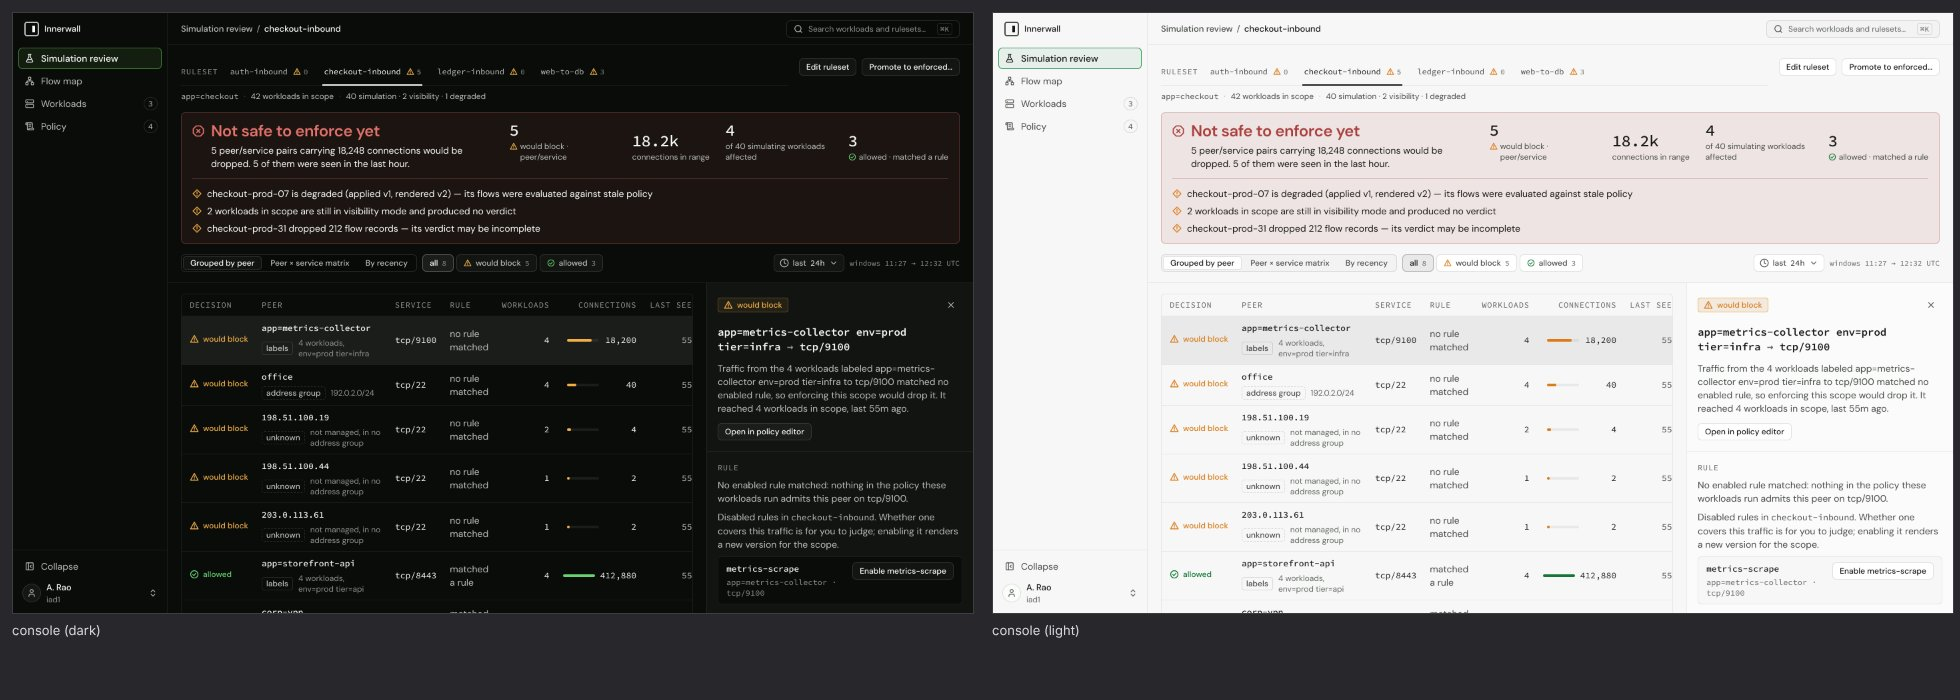
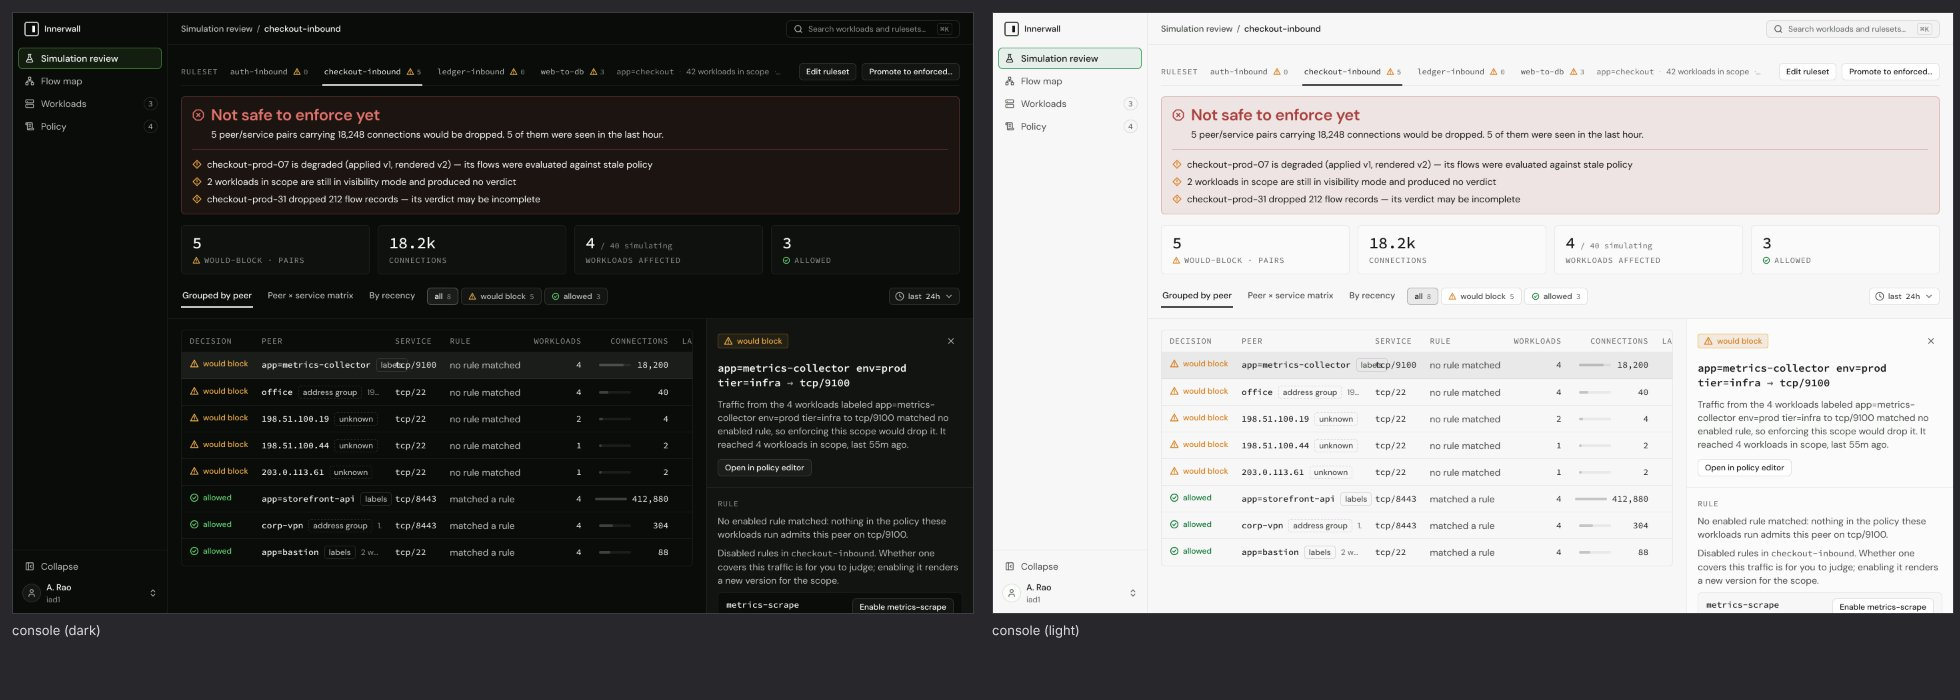
docs(console): record polish round 1; recapture the changed scenes
docs/design/PACKAGE.md records polish round 1 (P1-P14) as ruled,
including:
- the stat-tile labels;
- the neutral, kept mini-bars (P6);
- the result-line wording "N of M loaded" / "K match ·" / "filter
  counts cover loaded rows" (P8);
- hiding empty optional columns as display logic (P9).
E5 and the added-copy list point at it.

Recaptured from a fresh review-estate seed: the composites whose scenes
changed. That is every simulation review and flow map scene, the
Overview, inbound flows, offline resend and evidence-gap scenes, and
the policy editor scenes. The rest are unchanged.

Refs: INN-73

diff --git a/docs/design/PACKAGE.md b/docs/design/PACKAGE.md
@@ -136,7 +136,7 @@ The console scopes it in code:
[1 lines of base64/hex data omitted]
 | E3 | **Tabular numerals.** The package claims tabular figures, but its DM Sans files have proportional digits and no `tnum` feature. Numeric cells are set in Source Code Pro, which is fixed-width (existing practice), and the dead `tabular-nums` declarations are dropped. | 3 |
 | E4 | **Inbound flows columns.** The package specifies Time · Decision · Source · Port · Matched rule · Flows. The repo's columns win: Decision · Source · Port · Process · Matched rule · Conns · Last seen. Source draws the peer's labels as label chips. | 7 |
-| E5 | **Filtering over a paginated read.** "Client-side over served columns" sees only the loaded pages of the cursor-paged `/flows`. The panel's counts and result line are of the loaded rows and say so ("N of M loaded · more not loaded"), and the tab count stays the range total. Server-side filtering is INN-74. | 5 |
+| E5 | **Filtering over a paginated read.** "Client-side over served columns" sees only the loaded pages of the cursor-paged `/flows`. The panel's counts and result line are of the loaded rows and say so (as amended in polish round 1, P8), and the tab count stays the range total. Server-side filtering is INN-74. | 5 |
 | E6 | **Listening services groups.** Decision and Source are not columns of that table. Its panel has Port, Process, and Covered by rule ("— no rule covers it"). | 8 |
 | E7 | **Histogram (S5).** No time-bucketed flow read is served, so the Overview has no histogram and no reserved slot. The gap and `table_removed` history comes from `/flows/gaps`, and there is no credential event row (no event log is served). Follow-up INN-75 (ADR). | 14 |
 | E8 | **Workloads table.** The repo's columns and headers stay (Hostname, Labels, Mode, Sync, Applied, Credential, Agent, Last seen); Agent is new, from the served `agent.version`. The package's collapsible "Removed" bucket with no glyph misreads "removed": in the console it is *enforcement removed on host*, critical with the error glyph (issues #64, #96). | 15 |
@@ -149,6 +149,27 @@ The console scopes it in code:
 | E15 | **"Shown once" badge.** The package specifies a "shown once" warning badge before the mint dialog's sentence. The repo has no such string, so it is **not built** and is escalated as package-implied copy. The sentence is shown as prose with its glyph, and the secret sits in the sunk well. | escalated |
 | E16 | **Totals figures.** "Mono 24/28" has no package type style; the console keeps `type-mono-figure` locally in `index.css`. | build |
 | E17 | **Sign-in title.** The repo's sign-in has no page title (S3 placeholder; the repo owns the flow). `page-title` is used on the 404. | build |
+
+## Polish round 1 (live lab walkthrough, ruled 2026-10-15)
+
+Display and style only, within the package's rules. Wordings are as ruled.
+
+| # | Change |
+| --- | --- |
+| P1 | **Simulation review stat tiles.** The verdict banner holds only the headline, its sentence and the caveat lines. The four figures are a tile row under it: `surface-card` tiles, each a mono-uppercase label (`meta-label`) over a mono 24/28 figure. The labels: **WOULD-BLOCK · PAIRS** (would-block glyph), **CONNECTIONS**, **WORKLOADS AFFECTED** (with "/ N simulating" in text-tertiary), **ALLOWED** (allowed glyph). |
+| P2 | The scope line sits at the right of the ruleset row in text-tertiary, truncating, with a tooltip; one band fewer before the table. |
+| P3 | The UTC windows readout is the time-range control's tooltip, on Simulation review and Flow map. The text stays available to assistive technology. |
+| P4 | View switchers are underline tabs: views are places. This covers the review's Grouped by peer / Peer × service matrix / By recency and, by the same rule, the map's Graph / Matrix. The decision chips are the only boxed elements in the review toolbar. |
+| P5 | Review rows are one line: the peer, its kind tag, and its note, which truncates. The note "not managed, in no address group", the same on every row of the kind, is the `unknown` tag's tooltip. |
+| P6 | The review's connection mini-bars are **neutral and kept**: the `border-stronger` tone on the selected wash. They compare volume, and no status tone is used as decoration. |
+| P7 | When an alert card says a workload's state, the Status card keeps the facts but drops its health line (removed, offline or reconnecting, degraded). Beside the credential-expired card, its credential row is plain text. Each alarm is said once. |
+| P8 | **Inbound flows result line:** "*N* of *M* loaded", where *M* is the range's total (the tab's count, from the rollup). With a filter or search on, it leads with "*K* match ·". It ends with **"filter counts cover loaded rows"**. Replaces "N of M loaded · more not loaded". |
+| P9 | **Empty optional columns are hidden.** A column no loaded row has a value for (Inbound flows' Process; Listening services' Process and Path) is left out until one does. This is display logic, not a schema change. |
+| P10 | **Flow-map edge labels** keep clear of each other and of the nodes. A chip that would collide slides along its own edge to the nearest free place; only when its curve has none is it moved off it. |
+| P11 | The unmanaged-peer caption ("unmanaged · no address group") is set in the sans at 11px, and the node's side padding is 8px, so it fits the 176px node. It ellipsizes with a tooltip if it ever cannot. |
+| P12 | The map legend keeps short labels. "unmanaged peer" carries the full explanation as its tooltip, on hover and keyboard focus. |
+| P13 | The map's evidence warning is the short form **"evidence incomplete · N workload(s)"** (warn glyph and tone). The full sentence and every gap are its tooltip, on hover and keyboard focus. |
+| P14 | Policy section headers are the mono-upper label alone ("SCOPE", "INBOUND RULES"), each with a text-tertiary sentence-case line under it ("Workloads this ruleset protects", "Who may connect to scoped workloads, on what"). |
 
 ## Copy this build adds
 
@@ -165,7 +186,12 @@ These strings are new to the repository; every other rendered string is the repo
   - "— no rule covers it" (ruling 8);
   - "address group" as a Source annotation.
 - Result lines and empties:
-  - "N of M loaded", "· more not loaded";
+  - "N of M loaded", "K match ·", "filter counts cover loaded rows" (P8; "· more not loaded" is retired);
   - "N of M services";
   - "No loaded flows match these filters."
 - The Overview's history title, "Evidence gaps" (the repo's field name).
+- Polish round 1:
+  - the stat-tile labels (P1);
+  - "evidence incomplete · N workload(s)" (P13);
+  - "unmanaged peer" as the legend's short label (P12);
+  - the policy header split into "Scope" / "Inbound rules" with their sentence-case lines (P14).
